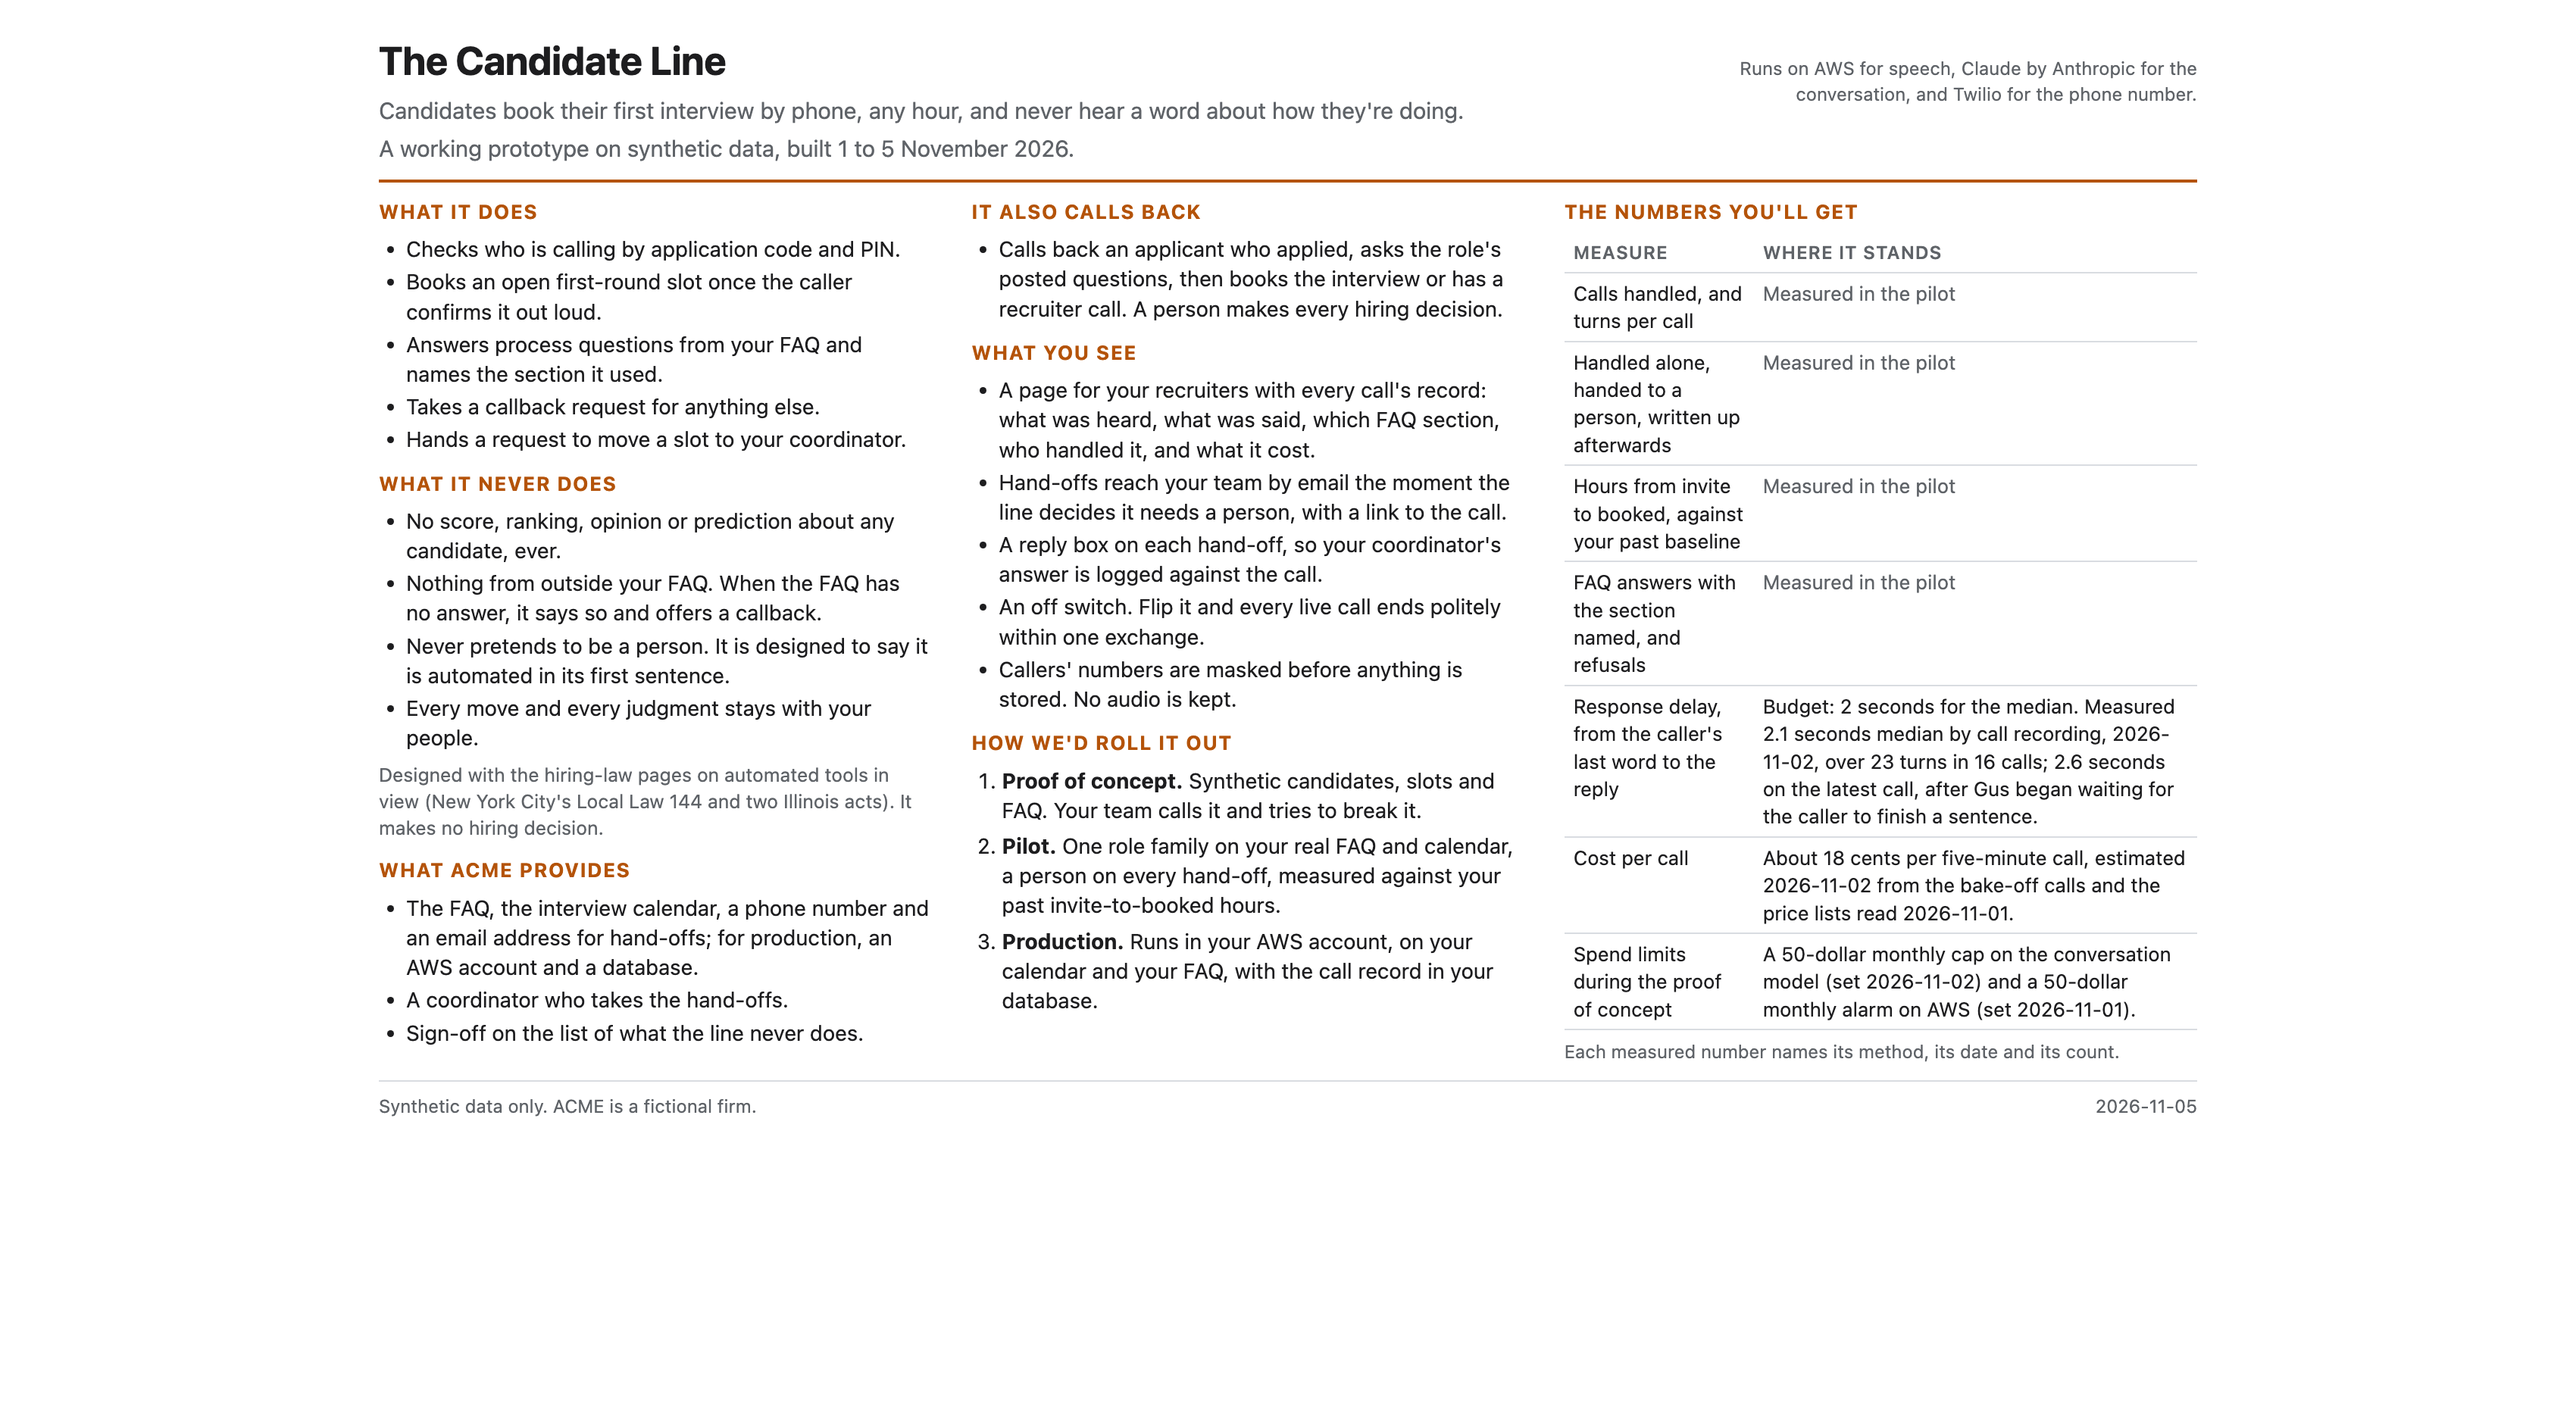
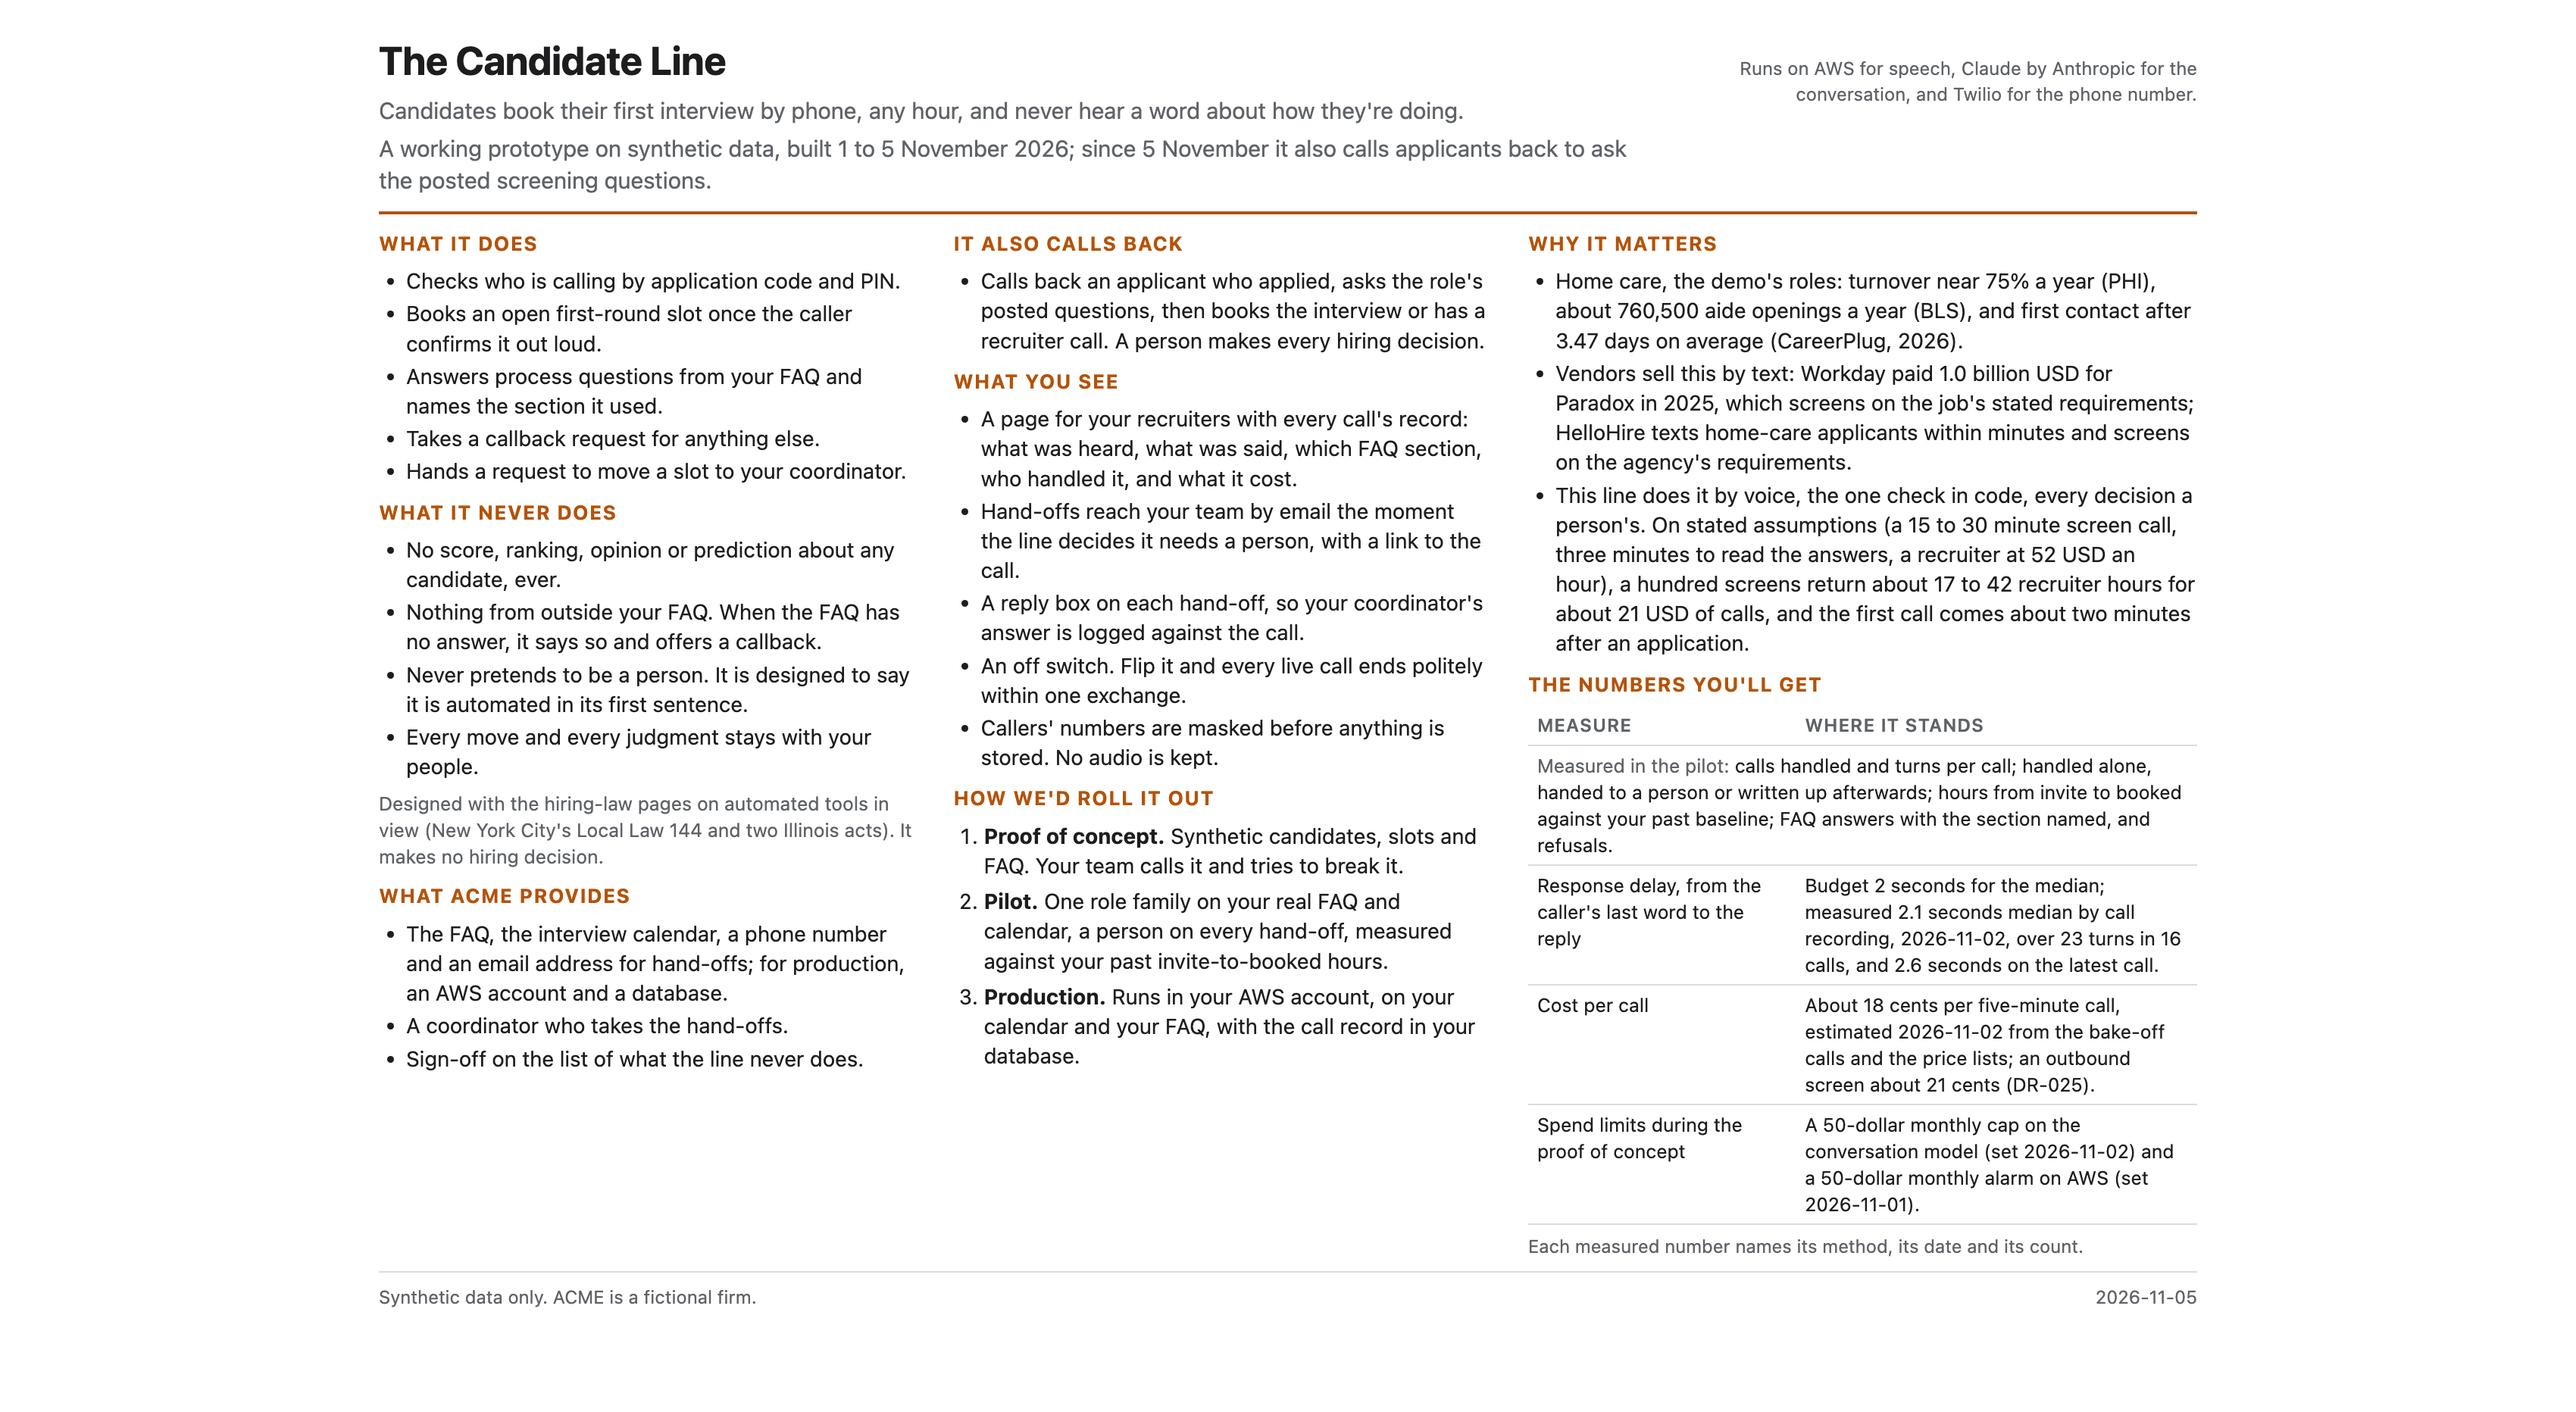
docs(showcase): the customer page says why the call matters, with the market figures and the case on stated assumptions, and names the outbound screen's cost

Changed region(s): [[0.1247, 0.0933, 0.8418, 0.9024], [0.1559, 0.9024, 0.2806, 0.9335], [0.8106, 0.9024, 0.8418, 0.9335]]

diff --git a/docs/showcase/customer.html b/docs/showcase/customer.html
@@ -14,15 +14,16 @@
   h1 { font-size: 26px; margin: 0; letter-spacing: -0.01em; }
   .promise { font-size: 15px; color: var(--muted); margin: 4px 0 0; }
   .runs { font-size: 12px; color: var(--muted); text-align: right; max-width: 360px; }
-  main { flex: 1; display: grid; grid-template-columns: 1fr 1fr 1.15fr; gap: 0 28px; padding-top: 10px; }
-  section { margin-bottom: 10px; }
+  main { flex: 1; display: grid; grid-template-columns: 1fr 1fr 1.25fr; gap: 0 26px; padding-top: 10px; }
+  section { margin-bottom: 8px; }
   h2 { font-size: 13px; text-transform: uppercase; letter-spacing: 0.06em; color: var(--accent); margin: 0 0 6px; }
   ul { margin: 0; padding-left: 18px; }
   li { margin: 2px 0; }
   ol { margin: 0; padding-left: 20px; }
   ol li { margin: 4px 0; }
   .law { margin: 6px 0 0; font-size: 12.5px; color: var(--muted); }
-  table { width: 100%; border-collapse: collapse; font-size: 13px; }
+  table { width: 100%; border-collapse: collapse; font-size: 12.5px; }
+  td:first-child, th:first-child { width: 40%; }
   th, td { text-align: left; vertical-align: top; padding: 4px 6px; border-bottom: 1px solid var(--line); }
   th { font-weight: 600; color: var(--muted); font-size: 12px; text-transform: uppercase; letter-spacing: 0.04em; }
   td.v { color: var(--ink); }
@@ -49,7 +50,7 @@
     <div>
       <h1>The Candidate Line</h1>
       <p class="promise">Candidates book their first interview by phone, any hour, and never hear a word about how they're doing.</p>
-      <p class="promise">A working prototype on synthetic data, built 1 to 5 November 2026.</p>
+      <p class="promise">A working prototype on synthetic data, built 1 to 5 November 2026; since 5 November it also calls applicants back to ask the posted screening questions.</p>
     </div>
     <div class="runs">Runs on AWS for speech, Claude by Anthropic for the conversation, and Twilio for the phone number.</div>
   </header>
@@ -115,15 +116,20 @@
 
     <div class="wide">
       <section>
+        <h2>Why It Matters</h2>
+        <ul>
+          <li>Home care, the demo's roles: turnover near 75% a year (PHI), about 760,500 aide openings a year (BLS), and first contact after 3.47 days on average (CareerPlug, 2026).</li>
+          <li>Vendors sell this by text: Workday paid 1.0 billion USD for Paradox in 2025, which screens on the job's stated requirements; HelloHire texts home-care applicants within minutes and screens on the agency's requirements.</li>
+          <li>This line does it by voice, the one check in code, every decision a person's. On stated assumptions (a 15 to 30 minute screen call, three minutes to read the answers, a recruiter at 52 USD an hour), a hundred screens return about 17 to 42 recruiter hours for about 21 USD of calls, and the first call comes about two minutes after an application.</li>
+        </ul>
+      </section>
+      <section>
         <h2>The Numbers You'll Get</h2>
         <table>
           <tr><th>Measure</th><th>Where it stands</th></tr>
-          <tr><td>Calls handled, and turns per call</td><td class="pilot">Measured in the pilot</td></tr>
-          <tr><td>Handled alone, handed to a person, written up afterwards</td><td class="pilot">Measured in the pilot</td></tr>
-          <tr><td>Hours from invite to booked, against your past baseline</td><td class="pilot">Measured in the pilot</td></tr>
-          <tr><td>FAQ answers with the section named, and refusals</td><td class="pilot">Measured in the pilot</td></tr>
-          <tr><td>Response delay, from the caller's last word to the reply</td><td class="v">Budget: 2 seconds for the median. Measured 2.1 seconds median by call recording, 2026-11-02, over 23 turns in 16 calls; 2.6 seconds on the latest call, after Gus began waiting for the caller to finish a sentence.</td></tr>
-          <tr><td>Cost per call</td><td class="v">About 18 cents per five-minute call, estimated 2026-11-02 from the bake-off calls and the price lists read 2026-11-01.</td></tr>
+          <tr><td colspan="2"><span class="pilot">Measured in the pilot:</span> calls handled and turns per call; handled alone, handed to a person or written up afterwards; hours from invite to booked against your past baseline; FAQ answers with the section named, and refusals.</td></tr>
+          <tr><td>Response delay, from the caller's last word to the reply</td><td class="v">Budget 2 seconds for the median; measured 2.1 seconds median by call recording, 2026-11-02, over 23 turns in 16 calls, and 2.6 seconds on the latest call.</td></tr>
+          <tr><td>Cost per call</td><td class="v">About 18 cents per five-minute call, estimated 2026-11-02 from the bake-off calls and the price lists; an outbound screen about 21 cents (DR-025).</td></tr>
           <tr><td>Spend limits during the proof of concept</td><td class="v">A 50-dollar monthly cap on the conversation model (set 2026-11-02) and a 50-dollar monthly alarm on AWS (set 2026-11-01).</td></tr>
         </table>
         <p class="note">Each measured number names its method, its date and its count.</p>

diff --git a/docs/showcase/customer-notes.md b/docs/showcase/customer-notes.md
@@ -27,6 +27,12 @@
 | Roll-out: production in ACME's AWS account, on its calendar and FAQ, record in its database | inferred: DR-012 "What would change the decision" (a second machine makes the file a Postgres table); the production design is the session cards' "how would this run in production" answer, not a record |
 | What ACME Provides | the inputs the problem card and the cards assume: the FAQ (`data/faq.md`), the slots (`data/slots.yaml`), the Twilio number (DR-005), an email address for the hand-off (DR-023; the operator's address is a stack parameter), the coordinator (card 06), the Never list confirmed by the room (`PREBUILT.md`, "Built live"); for production, the AWS account and the database named in the roll-out row |
 | Runs on: AWS for speech, Claude by Anthropic, Twilio | `docs/decisions/DR-003-models-and-regions.md:34` (the pick: Haiku 5.5 on the Anthropic API) and `:57` (the Anthropic workspace), `DR-001` option A (Transcribe, Polly), `DR-005` (Twilio). The call record is one SQLite file on the Mac (`candidate_line/traces/store.py:22-24`, DR-012), not on AWS, so "and records" was removed. |
+| Why It Matters: home-care turnover near 75% (PHI), about 760,500 aide openings a year (BLS), first contact after 3.47 days (CareerPlug, 2026) | PHI, Understanding the Direct Care Workforce: Key Facts & FAQ (<https://www.phinational.org/policy-research/key-facts-faq/>); BLS Occupational Outlook Handbook, Home Health and Personal Care Aides (<https://www.bls.gov/ooh/healthcare/home-health-aides-and-personal-care-aides.htm>); CareerPlug 2026 service franchise hiring report (<https://www.careerplug.com/2026-service-franchise-hiring-report/>, days to first contact by industry, a vendor's platform data). Added 5 November 2026 with the outbound call. |
+| Why It Matters: Workday paid 1.0 billion USD for Paradox; Paradox screens on the job's stated requirements; HelloHire texts within minutes and screens on the agency's requirements | Workday newsroom, 2025-10-01 (<https://newsroom.workday.com/2025-10-01-Workday-Completes-Acquisition-of-Paradox>); the price from Staffing Industry Analysts (<https://www.staffingindustry.com/editorial/it-staffing-report/workday-completes-acquisition-of-conversational-ai-firm-paradox>); Paradox screening page (<https://www.paradox.ai/products/screening>); HelloHire's site (<https://www.tryhellohire.com/>, vendor-marketing). |
+| Why It Matters: 17 to 42 recruiter hours per hundred screens for about 21 USD of calls; the first call about two minutes after an application | The operator's research note of 5 November 2026 (outside this repository), section 7: a 15 to 30 minute screen call (2021 career advice, not a time study), three minutes to read the answers (assumed), a recruiter at 52 USD an hour (BLS median wage over the wage share of compensation), 100 x (15 to 30) minutes against 100 x 3 + 30 x 5; the call cost from `docs/decisions/DR-025-outbound-screening.md` (Spend: about 0.21 USD a five-minute screen); the two minutes from the dialler's loop (`candidate_line/outbound/`, spec 9.3). |
+| Header: since 5 November it also calls applicants back | `spec.md` section 9; `docs/decisions/DR-025-outbound-screening.md`, Evidence (the two dialled calls of 5 November). |
+| Cost per call: an outbound screen about 21 cents | `docs/decisions/DR-025-outbound-screening.md`, Spend (about 0.21 USD a five-minute screen on DR-001's rates: outbound minutes, Transcribe and Polly). Added 5 November 2026. |
+| Numbers table: the four pilot measures are one row since 5 November 2026 | the same four measures as before (`prompts/07-scorecard.md:12-17`), collapsed to make room for Why It Matters on the one page. |
 | Footer: synthetic data, ACME fictional | `AGENTS.md` rule 10; `KICKOFF.md:7` ("a fictional engineering-services firm") |
 
 Not on the page by choice: the voice-setup comparison, model names, the tunnel, the laptop, test counts, and anything about James. The footer's date, 2026-11-05, is the day the outbound call was added; the session day was 2026-11-04.
